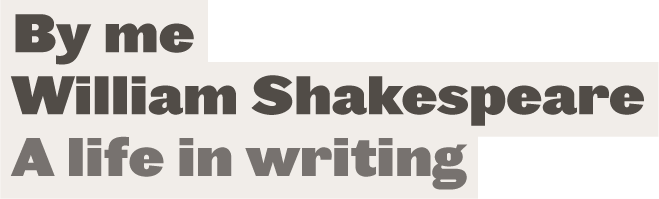
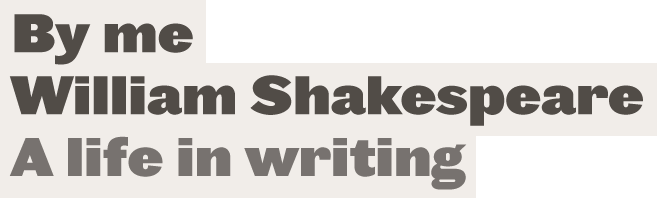
Fixing iPad issues with fixed navigation, crisper background images, expanding green borders and other sundry CSS tweaks.

diff --git a/css/main.css b/css/main.css
@@ -47,12 +47,12 @@ a:hover {
 }
 
 .green-left-border {
-    border-left: 15px solid #00da00;
+    border-left: 25px solid #00da00;
 }
 
 
 .grey-left-border {
-    border-left: 15px solid #5e5e60;
+    border-left: 25px solid #5e5e60;
 }
 .grey {
     color: #5e5e60;
@@ -66,8 +66,8 @@ a:hover {
     background-color: transparent;
 }
 
-.grey-bg-mobile {
-    background-color: #5e5e60;
+.action-bg-mobile {
+    background-color: #d3d3d3;
     color: #f1edea !important;
 }
 
@@ -200,7 +200,7 @@ span.edit-button{
 }
 
 .main {
-    padding: 60px 15px 0px 15px !important;
+    padding: 60px 15px 0px 25px !important;
     text-align: left;
 }
 
@@ -280,10 +280,12 @@ margin:0px !important;}
     min-height: 50px;
     position: relative;
     padding-top: 0px;
+
 }
 
 .info .half {
     width: 48%;
+
 }
 
 /*.info .half:first-of-type {*/
@@ -343,8 +345,8 @@ margin:0px !important;}
     background-image: url("../images/bmws-will-complete-m.jpg");
     background-repeat: no-repeat;
     background-size: cover !important;
-    height: 420px;
-    max-height: 420px;
+    height: 340px;
+    max-height: 340px;
     background-position: center;
 }
 
@@ -724,12 +726,24 @@ margin:0px !important;}
 
 /* media queries
 ===================================*/
+@media (min-width: 480px) {
 
-
+    .action-bg-mobile {
+        background-color: #00da00;
+        color: #000 !important;
+    }
+}
 @media (max-width: 480px) {
     .info-logos {
         width: 100% !important;
         text-align: center;
+    }
+    .vertical-half{
+        width:100%;
+        min-height: 90px;
+    }
+    .positioner .button {
+        margin-top:5%;
     }
 }
 
@@ -870,16 +884,16 @@ margin:0px !important;}
     .document-banner {
         background-image: url("../images/bmws-revels.jpg");
         background-size: cover !important;
-        height: 340px;
-        max-height: 340px;
+        height: 420px;
+        max-height: 420px;
         background-position: center;
     }
 
     .will-banner {
         background-image: url("../images/bmws-will-complete.jpg");
         background-size: cover !important;
-        height: 340px;
-        max-height: 340px;
+        height: 420px;
+        max-height: 420px;
         background-position: bottom right;
     }
 
@@ -887,10 +901,7 @@ margin:0px !important;}
         background-color: #5e5e60;
     }
 
-    .grey-bg-mobile {
-        background-color: transparent;
-        color: #000 !important;
-    }
+
 
     .grey-bg-mobile a {
         color: #000;
@@ -912,8 +923,9 @@ margin:0px !important;}
     }
 
     .half {
-        width: 50%;
+        width: 49% !important;
         float: left;
+
     }
 
     .one-third{
@@ -950,6 +962,9 @@ margin:0px !important;}
         margin-left: 0px;
         display: block;
         padding-top:110px;
+        box-shadow:none;
+        -moz-box-shadow: none;
+        border:0px !important;
     }
 
     .info-logos {
@@ -998,5 +1013,29 @@ width:100% !important;
     }
 }
 
+
+@media only screen
+and (min-device-width: 768px)
+and (max-device-width: 1024px)
+and (orientation: portrait)
+and (-webkit-min-device-pixel-ratio: 1) {
+
+    .info-logos{
+        width: 49% !important;
+
+    }
+.info{
+    position: relative;
+    display: block;
+}
+    .navbar-fixed-top {
+        position: relative !important;
+        min-height: 50px !important;
+        right: 0;
+        left: 0;
+        z-index: 1030;
+    }
+
+}
 
 

diff --git a/home.php b/home.php
@@ -17,10 +17,10 @@ get_header(); ?>
     </div>
 
 
-    <div class="container-fluid ">
-        <div class="one-third float-right equalbox">
+    <div class="container-fluid green-left-border">
+        <div class="one-third float-right">
 
-            <div class="text-center base-bg equalbox">
+            <div class="text-center base-bg">
                 <div class="vertical-half text-center padding-extra-big base grey-bg">
                     <div class="positioner">
 
@@ -34,7 +34,7 @@ get_header(); ?>
                     </div>
 
                 </div>
-                <div class="vertical-half padding-extra-big  text-center green-bg black">
+                <div class="vertical-half padding-extra-big text-center green-bg action-bg-mobile black">
                     <div class="positioner">
 
                             <?php if (function_exists('dynamic_sidebar') || dynamic_sidebar('Ticket URL')) : ?>
@@ -46,9 +46,9 @@ get_header(); ?>
                     </div>
                 </div>
             </div>
-
+<div class="clearfix"></div>
         </div>
-        <div class="two-thirds green-left-border padding padding-left-extra float-left equalbox">
+        <div class="two-thirds padding padding-left-extra float-left">
             <h2><?php the_title(); ?></h2>
 
             <?php the_content(); ?>

diff --git a/header.php b/header.php
@@ -84,7 +84,7 @@
 
             <div class="half float-left padding-left-small">
                 <div class="half float-left padding-top-small">
-                    <img src="<?php bloginfo('template_directory'); ?>/images/bmws-by-me-william-shakespeare.png" title="By me William Shakespeare" class="info-img">
+                    <img src="<?php bloginfo('template_directory'); ?>/images/bmws-by-me-william-shakespeare-sm.jpg" title="By me William Shakespeare" class="info-img">
                 </div>
                 <div class="half float-left padding-top-large padding-left-small">
                     <?php if (function_exists('dynamic_sidebar') || dynamic_sidebar('Exhibition Date')) : ?>
